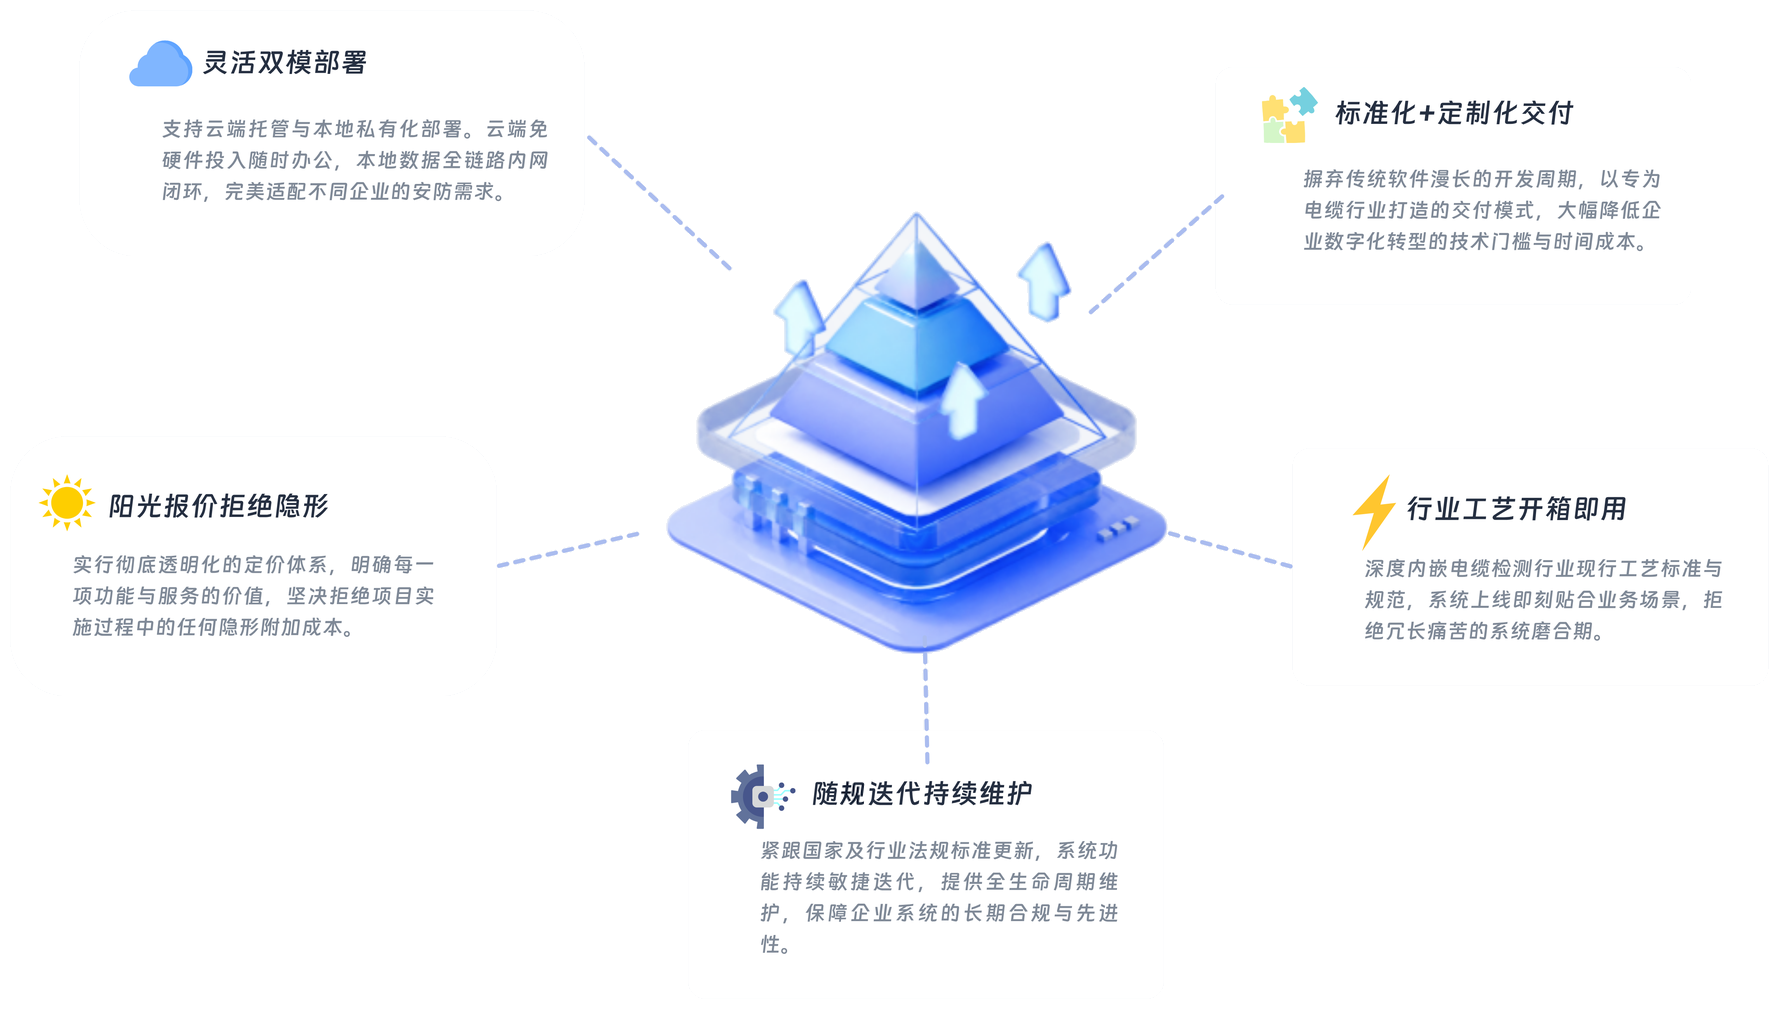
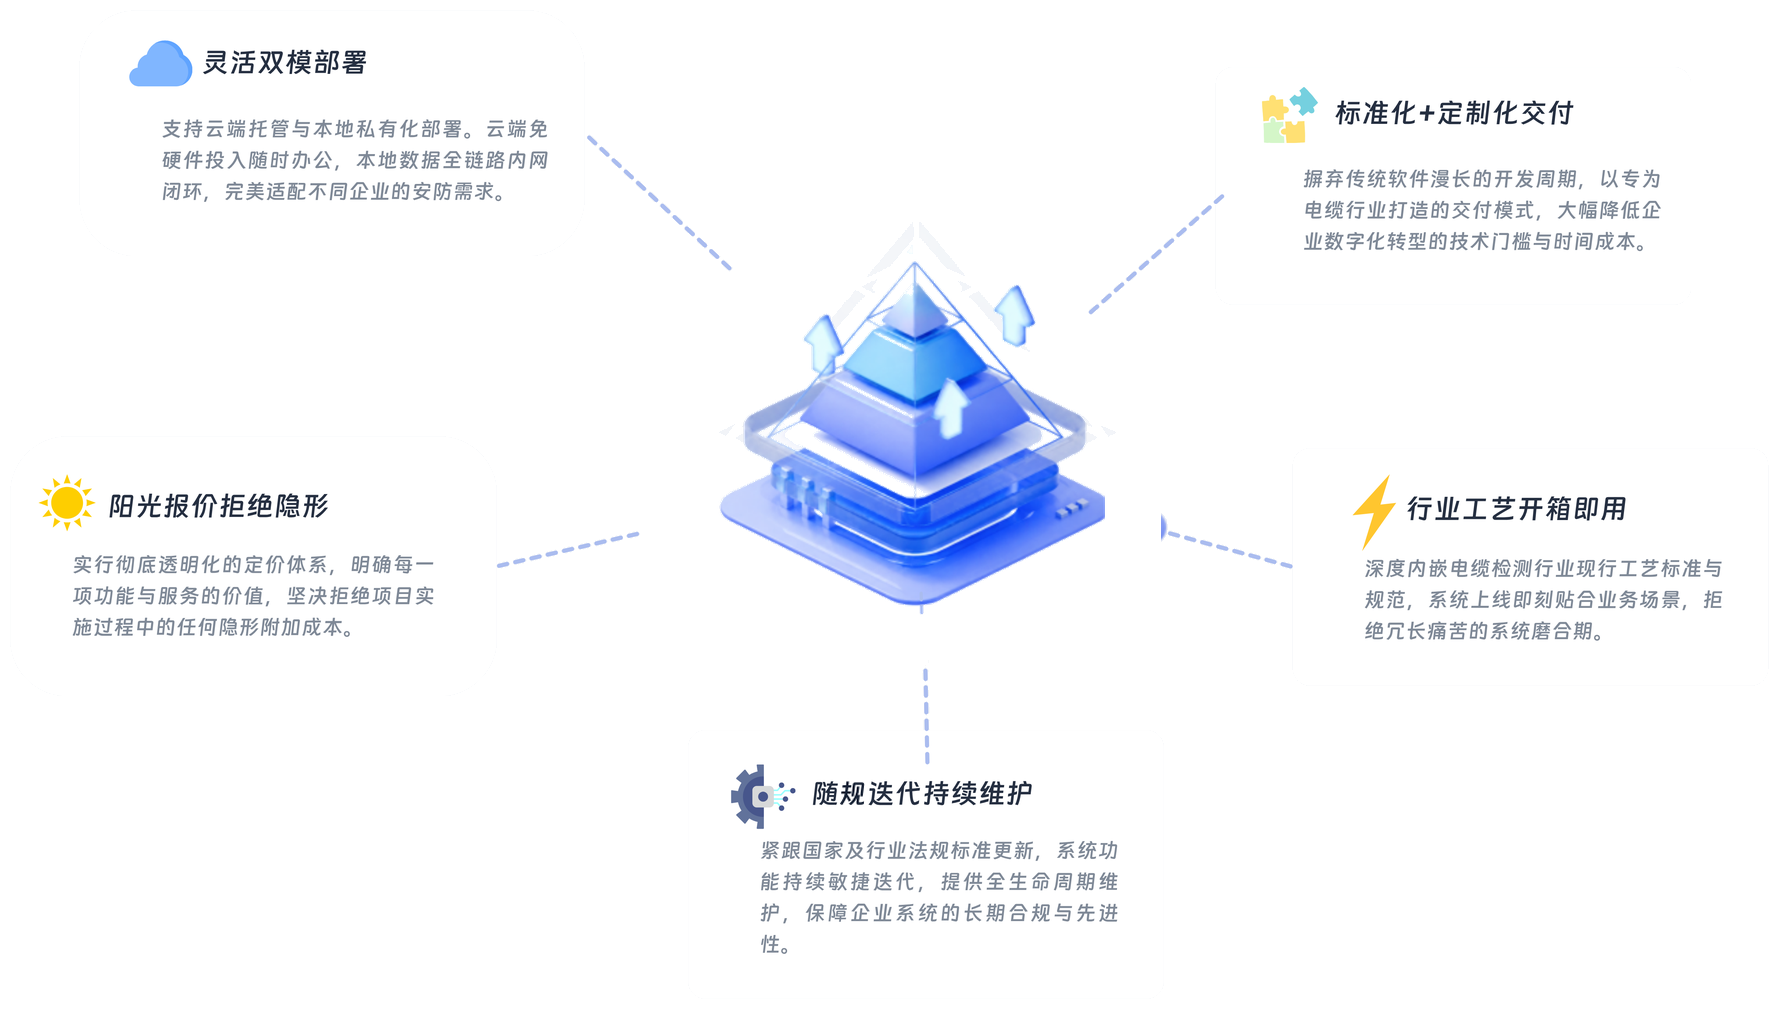
feat: 缩小优势9中心图标，主标题改为 LIMS 实验室业务管理系统

Changed region(s): [[0.371, 0.2151, 0.6492, 0.6452]]

diff --git a/shucan-lims-brochure.html b/shucan-lims-brochure.html
@@ -292,7 +292,6 @@
       z-index: 2;
       margin: 0;
     }
-    #top .brand .slogan { font-weight: 700; color: var(--ink); font-size: 18px; }
     #top h1 {
       margin: 0 0 14px;
       white-space: nowrap;
@@ -485,9 +484,9 @@
   <main id="main">
 
     <section class="slide" id="top">
-      <p class="brand"><img src="assets/brochure/logo-shucan.png" alt="" />数蚕 <em>LIMS</em><span class="slogan">让试验更简单</span></p>
+      <p class="brand"><img src="assets/brochure/logo-shucan.png" alt="" />数蚕</p>
       <div class="copy">
-        <h1>实验室业务管理系统</h1>
+        <h1>LIMS 实验室业务管理系统</h1>
         <p class="lead">遵循 CNAS、CMA 等体系标准要求，整合实验室设备、检测方法标准、质量管理等“人、机、料、法、环”全要素的数据信息，实现实验室全方位数字信息综合分析管理。</p>
         <ul class="points">
           <li><span class="ico r" aria-hidden="true"><svg viewBox="0 0 24 24" fill="none"><path d="M5 7h14M5 12h14M5 17h8" stroke="currentColor" stroke-width="1.8" stroke-linecap="round"/></svg></span><div><b><span class="no">01</span> · 现状和痛点</b><p>信息孤岛、重复抄录、数据防篡改、设备、人才和反馈速度。</p></div></li>
@@ -686,7 +685,7 @@
         <p class="lead">专为电缆制造业打造的“标准化+定制化”交付模式，降低数字化门槛，确保实验室在<strong>低试错成本</strong>下，持续获得行业前沿的技术迭代支持。</p>
       </header>
       <div class="cost-stage">
-        <img src="assets/brochure/20-cost-stage.png?v=svg4" alt="五张卡片环绕一座发光的蓝色多层金字塔：灵活双模部署、标准化加定制化交付、行业工艺开箱即用、阳光报价拒绝隐形、随规迭代持续维护。" />
+        <img src="assets/brochure/20-cost-stage.png?v=svg5" alt="五张卡片环绕一座发光的蓝色多层金字塔：灵活双模部署、标准化加定制化交付、行业工艺开箱即用、阳光报价拒绝隐形、随规迭代持续维护。" />
       </div>
     </section>
 
